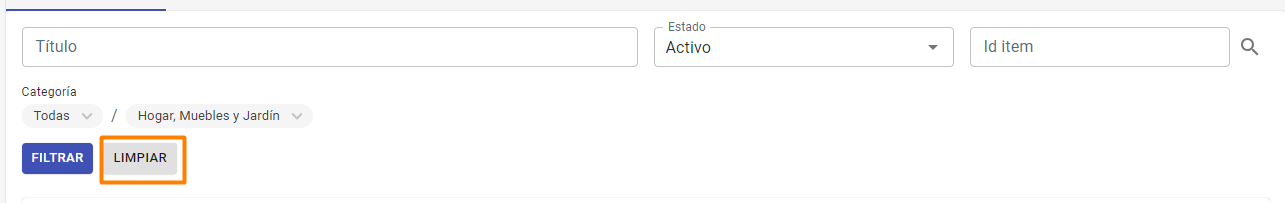
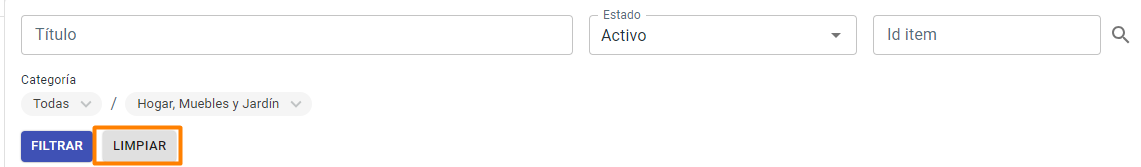
8 10 8

diff --git a/content/docs/items/listado_item.md b/content/docs/items/listado_item.md
@@ -9,9 +9,9 @@ lastmod: "2024-04-08T23:13:49-05:00"
 draft: false
 toc: true
 ---
-Una gran herramienta para la gestión de tu tienda disponible en nuestra plataforma es el módulo Ítems, donde se encuentran detalladas todas las publicaciones asociadas a la cuenta de Mercado Libre. 
-Utilizando el módulo Ítems no sólo podrás visualizar de forma sencilla y ordenada tus publicaciones según el criterio de búsqueda que necesites, sino que podrás conocer rápidamente información destacada de cada una, como el stock registrado disponible o el estado de la publicación.
-Así mismo, con el fin de lograr una óptima calidad de la respuesta sin saturar la publicación de Mercado libre, se agregó la sección Información adicional, donde puedes agregar información adicional que se debe tomar en cuenta al momento de generar la respuesta. Dicha información quedará disponible sólo en nuestra plataforma, pero no será visibile en tu publicación en Mercado Libre
+Una gran herramienta para la gestión de tu tienda disponible en nuestra plataforma es el módulo Ítems, donde se encuentran detalladas todas las publicaciones asociadas a la cuenta de Mercado Libre. <br></br>
+Utilizando el módulo Ítems no sólo podrás visualizar de forma sencilla y ordenada tus publicaciones según el criterio de búsqueda que necesites, sino que podrás conocer rápidamente información destacada de cada una, como el stock registrado disponible o el estado de la publicación.<br></br>
+Así mismo, con el fin de lograr una óptima calidad de la respuesta sin saturar la publicación de Mercado libre, se agregó para cada ítem la sección Información adicional, donde puedes agregar información que debe tomarse en cuenta al momento de generar la respuesta. Dicha información quedará disponible sólo en nuestra plataforma, y no será visibile en tu publicación en Mercado Libre. <br></br>
 
 Información disponible de una publicación
 
@@ -23,7 +23,7 @@ Para visualizar el listado de publicaciones:
 3. Las publicaciones se encuentran separadas por cuenta de Mercado Libre. Para visualizar el listado de una cuenta presiona sobre el nombre de la misma.
 {{< figure width="700px" height="500px" src="/images/general/item3.png" >}}
 3. La primera sección del módulo contiene los filtros disponibles que se pueden aplicar en el listado. Al seleccionarlos, definirás las publicaciones que se visualizan en función de la o las características que selecciones en los mismos. 
-{{< figure width="700px" height="500px" src="/images/general/item2.png" >}}
+{{< figure width="700px" height="500px" src="/images/general/items2.png" >}}
 4. Por ejemplo, si quisieras filtrar por el estado para visualizar sólo aquellas publicaciones que se encuentran en un estado determinado, debes desplegar las opciones disponibles para el filtro Estado y seleccionar el correspondiente.
 {{< figure width="700px" height="500px" src="/images/general/item4.png" >}}
 5. Si quisieras filtrar la publicación de un ítem específico, puedes ingresar el Id del mismo en el campo Id ítem. Otra forma de hacerlo es presionar la lupa a la derecha del campo.
@@ -34,7 +34,7 @@ Para visualizar el listado de publicaciones:
 {{< figure width="700px" height="500px" src="/images/general/item5.png" >}}
 7. Si deseas borrar los filtros seleccionados, presiona el botón LIMPIAR.
 {{< figure width="700px" height="500px" src="/images/general/item7.png" >}}
-8. Al presionar sobre el título de cualquiera de las publicaciones del listado, se desplegará en una nueva pestaña la publicación en Mercado Libre el detalle de la publicación.
+8. Al presionar sobre el título de cualquiera de las publicaciones del listado, se desplegará en una nueva pestaña la publicación en Mercado Libre.
 {{< figure width="700px" height="500px" src="/images/general/item8.png" >}}
 9. Al presionar sobre cualquiera de las publicaciones del listado (excepto sobre el título de la misma), se desplegará el detalle de la publicación.
 {{< figure width="700px" height="500px" src="/images/general/item9.png" >}}
